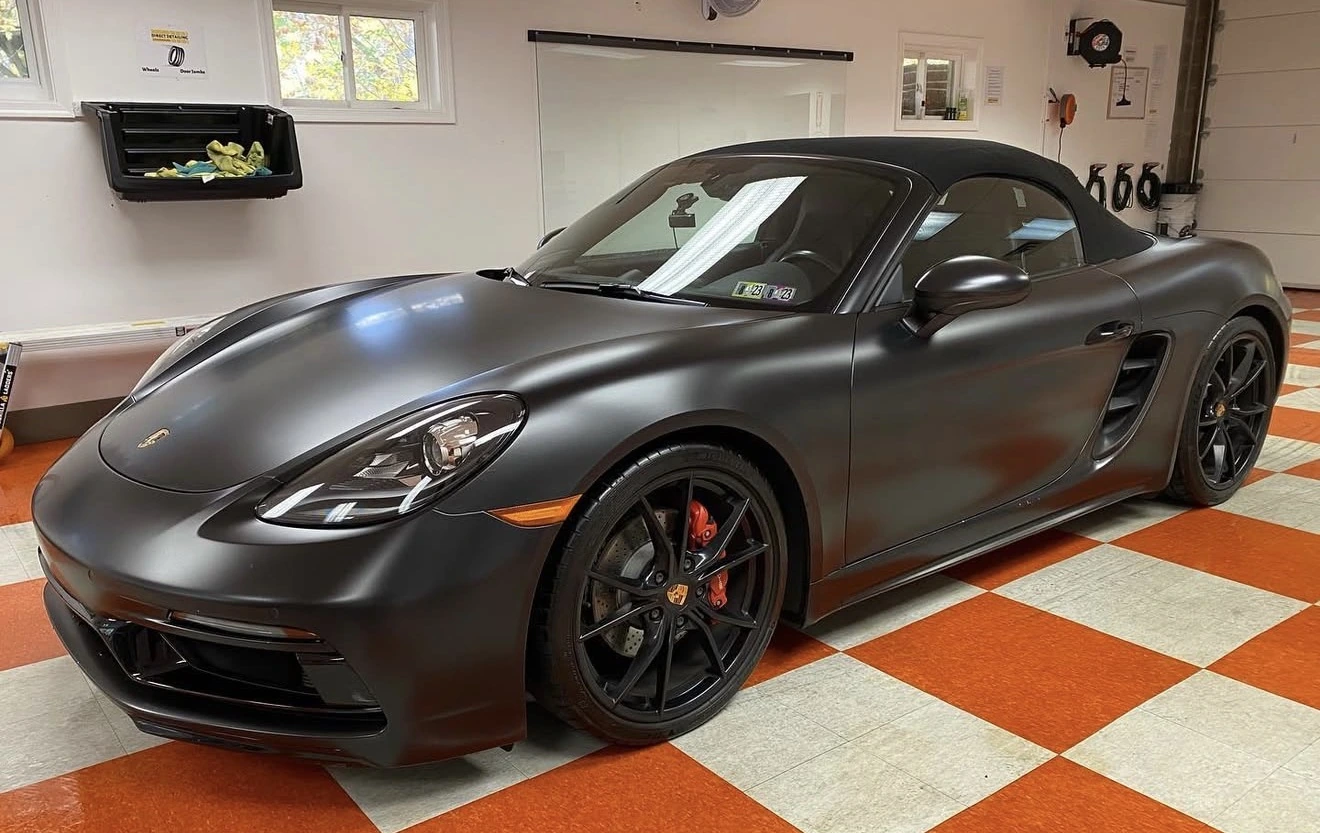
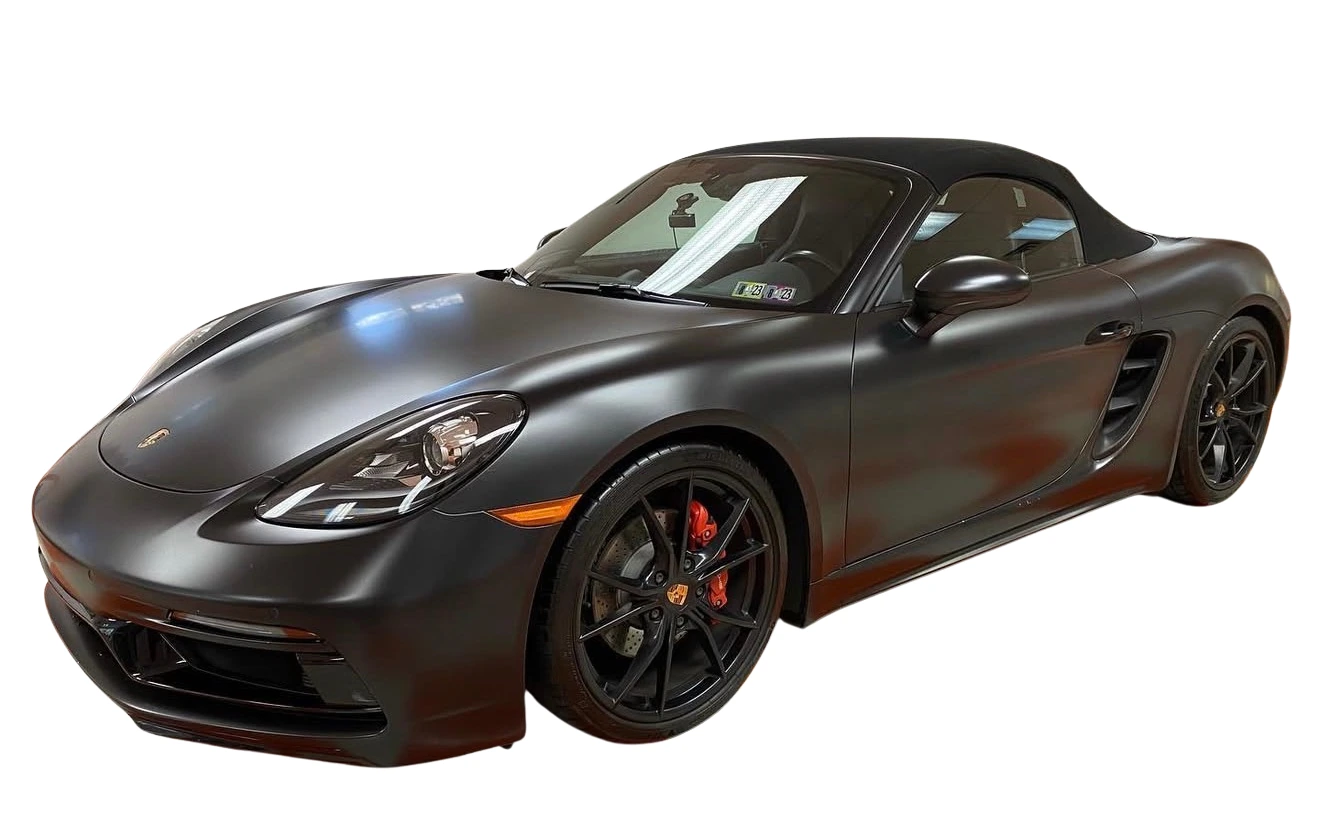
Wrap: new cut-out sports car photo with traced trim; ceramic: remove coverage diagram
Claude-Session: https://claude.ai/code/session_01TC8hHsQGEZ2GaHBM8k3cGS

diff --git a/index.html b/index.html
@@ -13,7 +13,7 @@
 <meta name="theme-color" content="#1D2125">
 <link rel="icon" href="assets/img/favicon.png">
 <link rel="preload" href="assets/fonts/michroma-400.woff2" as="font" type="font/woff2" crossorigin>
-<link rel="stylesheet" href="styles.css?v=202611092030">
+<link rel="stylesheet" href="styles.css?v=202611092040">
 <script type="application/ld+json">
 {
   "@context": "https://schema.org",
@@ -108,7 +108,7 @@
       <div class="wrap-tool">
         <div class="caliper-view wrap-view" id="wrap-view">
           <div class="cv-stage" id="wrap-stage">
-            <img id="wrap-img" src="assets/img/wrap-sports.webp?v=20261109m" alt="Porsche sports car with its body wrapped in the selected color" width="1320" height="833" loading="lazy">
+            <img id="wrap-img" src="assets/img/wrap-sports.webp?v=20261109n" alt="Porsche sports car with its body wrapped in the selected color" width="1320" height="833" loading="lazy">
             <canvas id="wrap-paint" width="1149" height="342" aria-hidden="true"></canvas>
           </div>
           <p class="cv-photo-note">Real car, rewrapped live</p>
@@ -161,7 +161,7 @@
       <div class="caliper-view" id="caliper-view" data-mode="photo">
         <canvas id="caliper-canvas" tabindex="0" role="img" aria-label="3D model of a wheel and brake caliper in the selected color. Drag, or use the arrow keys, to change the angle."></canvas>
         <div class="cv-stage" id="cv-stage">
-          <img id="caliper-img" src="assets/img/caliper-sports.webp?v=20261109m" alt="Black wheel on a red sports car" width="1200" height="900" loading="lazy">
+          <img id="caliper-img" src="assets/img/caliper-sports.webp?v=20261109n" alt="Black wheel on a red sports car" width="1200" height="900" loading="lazy">
           <canvas id="caliper-paint" width="193" height="347" aria-hidden="true"></canvas>
         </div>
         <p class="cv-hint" aria-hidden="true"><span class="cv-hint-icon"></span>Drag to rotate</p>
@@ -263,40 +263,9 @@
       <div class="coating" id="ceramic" aria-labelledby="coating-h">
         <div class="coating-head">
           <h3 id="coating-h">Ceramic coating packages</h3>
-          <p>Every package starts with a decontaminated surface, because a coating only bonds as well as the paint underneath it. Choose a package to see exactly what it covers.</p>
+          <p>Every package starts with a decontaminated surface, because a coating only bonds as well as the paint underneath it. Coverage and process for each are listed below.</p>
         </div>
         <div class="coating-top">
-          <figure class="coat-diagram">
-            <svg class="coat-svg" id="coat-svg" viewBox="0 0 600 230" data-on="paint glass trim" role="img" aria-labelledby="coat-svg-t">
-              <title id="coat-svg-t">Diagram of a car showing which surfaces the selected package coats</title>
-              <defs>
-                <linearGradient id="coat-sheen" x1="0" x2="1" y1="0" y2="0">
-                  <stop offset="0" stop-color="#fff" stop-opacity="0"/><stop offset=".5" stop-color="#fff" stop-opacity=".55"/><stop offset="1" stop-color="#fff" stop-opacity="0"/>
-                </linearGradient>
-                <clipPath id="coat-clip"><path d="M40,168 C40,148 54,137 82,132 L172,122 C204,96 244,74 300,70 L382,70 C424,72 454,92 482,118 L542,126 C562,130 570,145 570,164 L570,178 C570,184 566,188 560,188 L500,188 A44,44 0 0 0 412,188 L196,188 A44,44 0 0 0 108,188 L52,188 C44,188 40,182 40,175 Z"/></clipPath>
-              </defs>
-              <ellipse cx="305" cy="214" rx="270" ry="9" class="z-shadow"/>
-              <path class="z z-paint" d="M40,168 C40,148 54,137 82,132 L172,122 C204,96 244,74 300,70 L382,70 C424,72 454,92 482,118 L542,126 C562,130 570,145 570,164 L570,178 C570,184 566,188 560,188 L500,188 A44,44 0 0 0 412,188 L196,188 A44,44 0 0 0 108,188 L52,188 C44,188 40,182 40,175 Z"/>
-              <path class="z-line" d="M300,122 L300,186 M410,122 C412,150 410,170 404,186 M82,150 C200,146 420,146 560,150"/>
-              <path class="z z-glass" d="M196,120 C220,98 254,84 296,81 L298,120 Z"/>
-              <path class="z z-glass" d="M308,81 L378,81 C406,83 428,99 446,118 L308,120 Z"/>
-              <path class="z z-trim" d="M190,122 C216,96 252,78 298,76 L380,76 C414,78 442,96 462,120 L452,121 C432,101 408,86 378,85 L308,85 L308,120 L298,120 L298,86 C256,88 226,102 204,122 Z"/>
-              <path class="z z-trim" d="M196,180 L412,180 L410,188 L198,188 Z"/>
-              <path class="z z-trim" d="M44,176 L100,176 L104,186 L52,188 C46,186 44,182 44,176 Z"/>
-              <path class="z-light" d="M46,142 C54,138 66,136 78,136 L74,146 C64,147 54,148 46,150 Z"/>
-              <path class="z-light z-tail" d="M556,132 L566,140 L566,152 L556,150 Z"/>
-              <g class="z z-wheels">
-                <circle cx="152" cy="188" r="36" class="z-tire"/><circle cx="152" cy="188" r="25" class="z-rim"/>
-                <circle cx="456" cy="188" r="36" class="z-tire"/><circle cx="456" cy="188" r="25" class="z-rim"/>
-                <path class="z-spoke" d="M152,165 L152,211 M129,188 L175,188 M136,172 L168,204 M168,172 L136,204 M456,165 L456,211 M433,188 L479,188 M440,172 L472,204 M472,172 L440,204"/>
-              </g>
-              <rect class="z-sheen" x="-160" y="60" width="140" height="140" clip-path="url(#coat-clip)"/>
-            </svg>
-            <figcaption class="coat-legend">
-              <span class="lg lg-paint">Paint</span><span class="lg lg-glass">Glass</span><span class="lg lg-trim">Trim</span><span class="lg lg-wheels">Wheels</span>
-            </figcaption>
-            <p class="coat-now" id="coat-now" aria-live="polite">Level II: 5-Year Ceramic Coating</p>
-          </figure>
           <div class="coat-tiers">
           <article class="coat-card " data-cover="paint glass" data-pkg="l1">
             <p class="coat-level">Level I</p>
@@ -306,7 +275,6 @@
             <p class="coat-sub">Coverage</p>
             <ul><li>All painted surfaces</li><li>All exterior glass</li></ul>
             <p class="coat-sub">Process</p><ul><li>Hand wash and ceramic spray application</li><li>No cure time</li><li>Same-day turnaround</li></ul>
-            <button type="button" class="coat-select" aria-pressed="false"><span class="sr-only">Show coverage for </span>Ceramic Sealant</button>
           </article>
           <article class="coat-card is-featured" data-cover="paint glass trim" data-pkg="l2">
             <span class="coat-badge">Most popular</span><p class="coat-level">Level II</p>
@@ -316,7 +284,6 @@
             <p class="coat-sub">Coverage</p>
             <ul><li>All painted surfaces</li><li>All exterior glass</li><li>All exterior trim</li></ul>
             <p class="coat-sub">Process</p><ul><li>Wash, clay bar, iron decontamination and polish</li><li>Single-layer professional coating</li><li>Complimentary interior detail</li></ul>
-            <button type="button" class="coat-select" aria-pressed="false"><span class="sr-only">Show coverage for </span>5-Year Ceramic Coating</button>
           </article>
           <article class="coat-card " data-cover="paint glass trim" data-pkg="l3">
             <p class="coat-level">Level III</p>
@@ -326,7 +293,6 @@
             <p class="coat-sub">Coverage</p>
             <ul><li>All painted surfaces</li><li>All exterior glass</li><li>All exterior trim</li></ul>
             <p class="coat-sub">Process</p><ul><li>Wash, clay bar, iron decontamination and polish</li><li>Multi-layer professional coating</li><li>Complimentary interior detail</li></ul>
-            <button type="button" class="coat-select" aria-pressed="false"><span class="sr-only">Show coverage for </span>10-Year Ceramic Coating</button>
           </article>
           </div>
         </div>
@@ -339,7 +305,6 @@
             <p class="coat-sub">Coverage</p>
             <ul><li>Front windshield and rear glass</li><li>Door and quarter windows</li><li>Sunroof or panoramic roof</li></ul>
             <p class="coat-sub">Benefits</p><ul><li>Rain beads and sheets off at speed</li><li>Easier ice and bug removal</li></ul>
-            <button type="button" class="coat-select" aria-pressed="false"><span class="sr-only">Show coverage for </span>Exterior Glass Coating</button>
           </article>
           <article class="coat-card coat-addon" data-cover="wheels" data-pkg="wheels">
             <p class="coat-level">Add-on or standalone</p>
@@ -349,7 +314,6 @@
             <p class="coat-sub">Coverage</p>
             <ul><li>Full wheel face, every wheel</li></ul>
             <p class="coat-sub">Process</p><ul><li>In-depth wheel cleaning and decontamination</li><li>Multi-layer application</li><li>High-heat resistant to brake dust</li></ul>
-            <button type="button" class="coat-select" aria-pressed="false"><span class="sr-only">Show coverage for </span>Wheel Coating</button>
           </article>
         </div>
       </div>
@@ -505,6 +469,6 @@
 </footer>
 
 <script src="caliper-3d.js?v=202611091725" defer></script>
-<script src="main.js?v=202611092020" defer></script>
+<script src="main.js?v=202611092050" defer></script>
 </body>
 </html>

diff --git a/main.js b/main.js
@@ -36,7 +36,7 @@ function arrowNav(buttons, select) {
 // box = where the shade layer sits in the photo: [x, y, width, height]; size defaults to 1200x900.
 // Bump ASSET_V whenever a photo or shade layer changes, so phones never pair a cached old
 // photo with a new shade layer (that is what makes the repaint look shifted).
-const ASSET_V = '20261109m';
+const ASSET_V = '20261109n';
 const toLin = v => Math.pow(v / 255, 2.2);
 const hexLin = h => { const n = parseInt(h.replace('#', ''), 16); return [n >> 16 & 255, n >> 8 & 255, n & 255].map(toLin); };
 const FIN = { gloss: [1, 1], satin: [0.8, 0.4], matte: [0.6, 0.12] };   // lighting contrast, shine kept
@@ -210,7 +210,7 @@ const wrapPaint = createPainter({
   view: document.getElementById('wrap-view'), img: document.getElementById('wrap-img'), canvas: document.getElementById('wrap-paint'),
   stage: document.getElementById('wrap-stage'), initial: 'sports', color: '#C8102E',
   vehicles: {
-    sports: { img: asset('wrap-sports.webp'), shade: asset('wrap-sports-shade.png'), box: [30, 229, 1262, 532], size: [1320, 833], alt: 'Porsche sports car with its body wrapped in the selected color' },
+    sports: { img: asset('wrap-sports.webp'), shade: asset('wrap-sports-shade.png'), box: [30, 232, 1263, 537], size: [1320, 833], alt: 'Porsche sports car with its body wrapped in the selected color' },
     sedan: { img: asset('wrap-sedan.webp'), shade: asset('wrap-sedan-shade.png'), box: [21, 544, 1263, 380], size: [1320, 1158], alt: 'Porsche sport sedan with its body wrapped in the selected color' },
     suv: { img: asset('wrap-suv.webp'), shade: asset('wrap-suv-shade.png'), box: [53, 327, 1219, 404], size: [1320, 929], alt: 'Porsche SUV with its body wrapped in the selected color' },
     truck: { img: asset('wrap-truck.webp'), shade: asset('wrap-truck-shade.png'), box: [35, 117, 1243, 496], size: [1320, 812], alt: 'Ford F-250 pickup with its body wrapped in the selected color' }
@@ -241,19 +241,5 @@ function setShade(btn) {
 arrowNav(shadeButtons, setShade);
 const initial = document.querySelector('.shade-picker [aria-checked="true"]');
 if (initial) setShade(initial);
-
-// Ceramic packages: choosing a package lights up its coverage on the diagram
-(() => {
-  const svg = document.getElementById('coat-svg'), fig = svg && svg.closest('.coat-diagram'), now = document.getElementById('coat-now');
-  const cards = Array.from(document.querySelectorAll('.coat-card'));
-  if (!svg || !cards.length) return;
-  function pick(card) {
-    cards.forEach(c => { const on = c === card; c.classList.toggle('is-active', on); c.querySelector('.coat-select').setAttribute('aria-pressed', String(on)); });
-    svg.dataset.on = card.dataset.cover; fig.dataset.on = card.dataset.cover;
-    now.textContent = `${card.querySelector('.coat-level').textContent}: ${card.querySelector('h4').textContent}`;
-  }
-  cards.forEach(c => c.querySelector('.coat-select').addEventListener('click', () => pick(c)));
-  pick(cards.find(c => c.classList.contains('is-featured')) || cards[0]);
-})();
 
 document.getElementById('year').textContent = new Date().getFullYear();

diff --git a/styles.css b/styles.css
@@ -614,3 +614,8 @@ address { font-style: normal; font-weight: 700; font-size: 1.5rem; line-height: 
 @media (max-width: 360px) {
   .cal-controls .color-picker button, .cal-controls .custom-swatch { width: 34px; height: 34px; }
 }
+
+/* Ceramic packages without the diagram: tiers span the full width */
+.coating-top { grid-template-columns: 1fr; }
+.coat-card.is-featured { border-color: var(--red); box-shadow: 0 0 0 2px var(--red), 0 14px 30px -18px rgba(215,25,42,.6); }
+.coat-card:hover { transform: none; }
